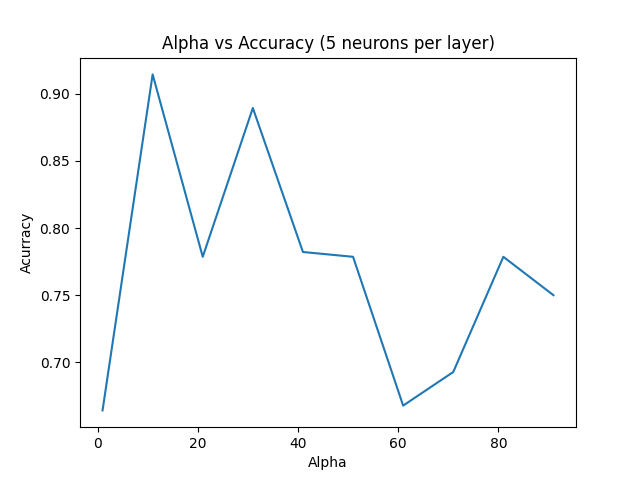
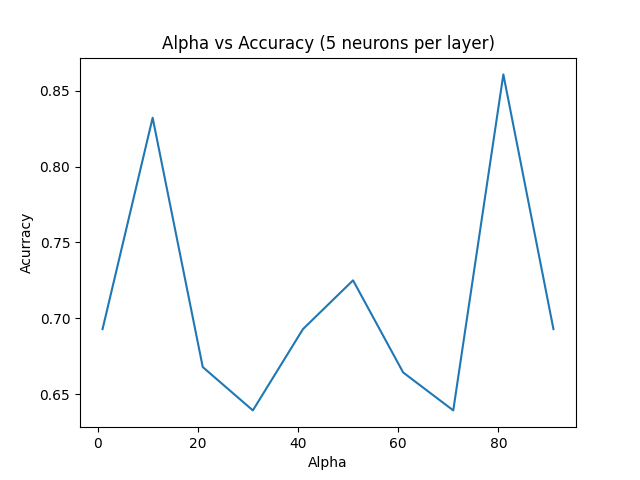
Minor changes

diff --git a/Act_Adjustment/grid_search.py b/Act_Adjustment/grid_search.py
@@ -30,7 +30,7 @@ if __name__ == "__main__":
     optimizer = GridSearchCV(estimator=regressor, param_grid= param_grid, n_jobs=-1, cv=cross_validator, scoring="neg_mean_squared_error")
     hyper_parameters = optimizer.fit(X_train, y_train)
     best_regressor = hyper_parameters.best_estimator_
-    print("--- HYPERPARAMER TUNNED ---")
+    print("--- HYPER-PARAMETER TUNNED ---")
     print("R2: {:.2f}".format(best_regressor.score(X_test, y_test)))
     pred = best_regressor.predict(X_test)
     print("M.S.E: {:.2f}".format(mean_squared_error(y_test, pred)))

diff --git a/Act_Adjustment/layer_comparison.py b/Act_Adjustment/layer_comparison.py
@@ -40,9 +40,8 @@ def MLP_from_regulator(regulator):
     return accuracy
 
 if __name__ == "__main__":
-    neurons = 5
+    neurons = 20
     test_sizes = np.arange(2,200,2)
-    print(test_sizes)
     acc = []
     for size in test_sizes:
         accuracy = MLP_from_size(neurons,size)

diff --git a/Act_Training/mlp.py b/Act_Training/mlp.py
@@ -1,4 +1,4 @@
-import pandas as pd
+import matplotlib.pyplot as plt
 import numpy as np
 from sklearn.model_selection import train_test_split
 from sklearn.preprocessing import StandardScaler
